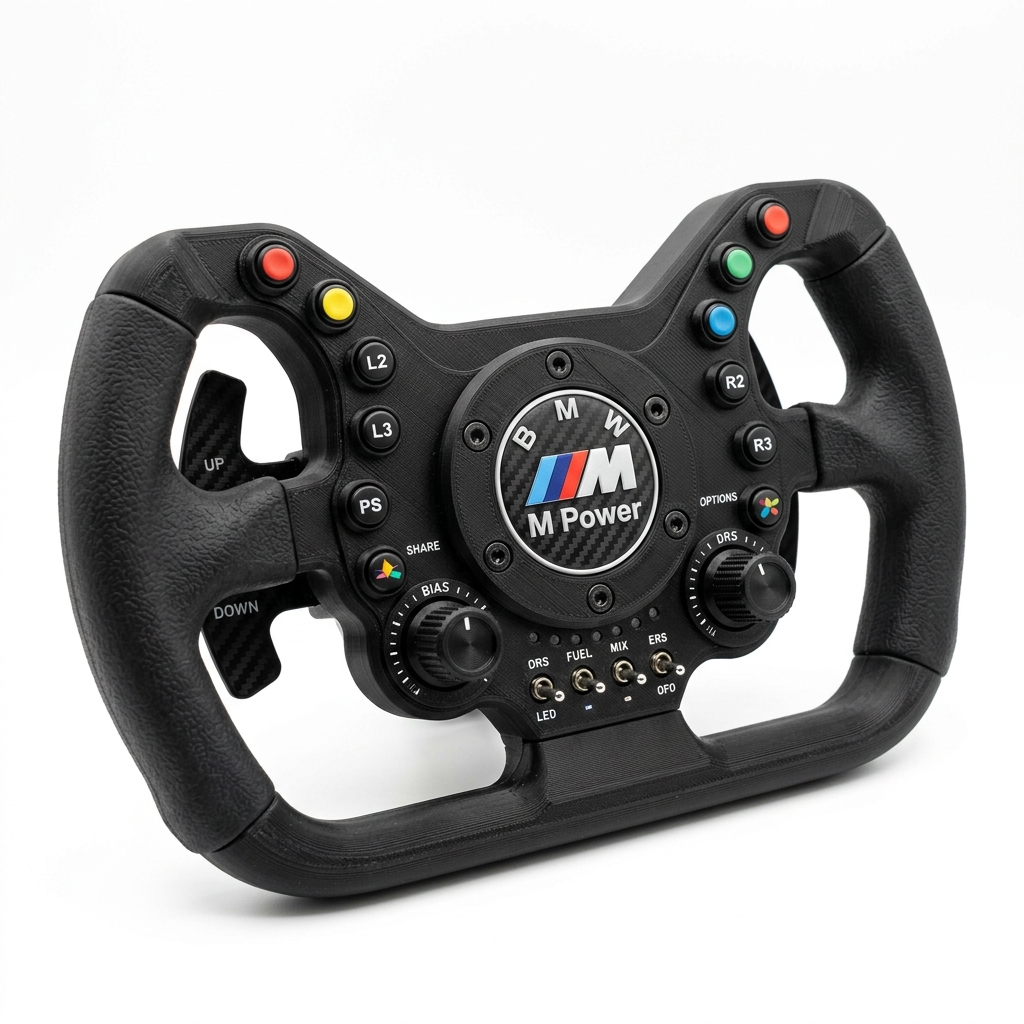
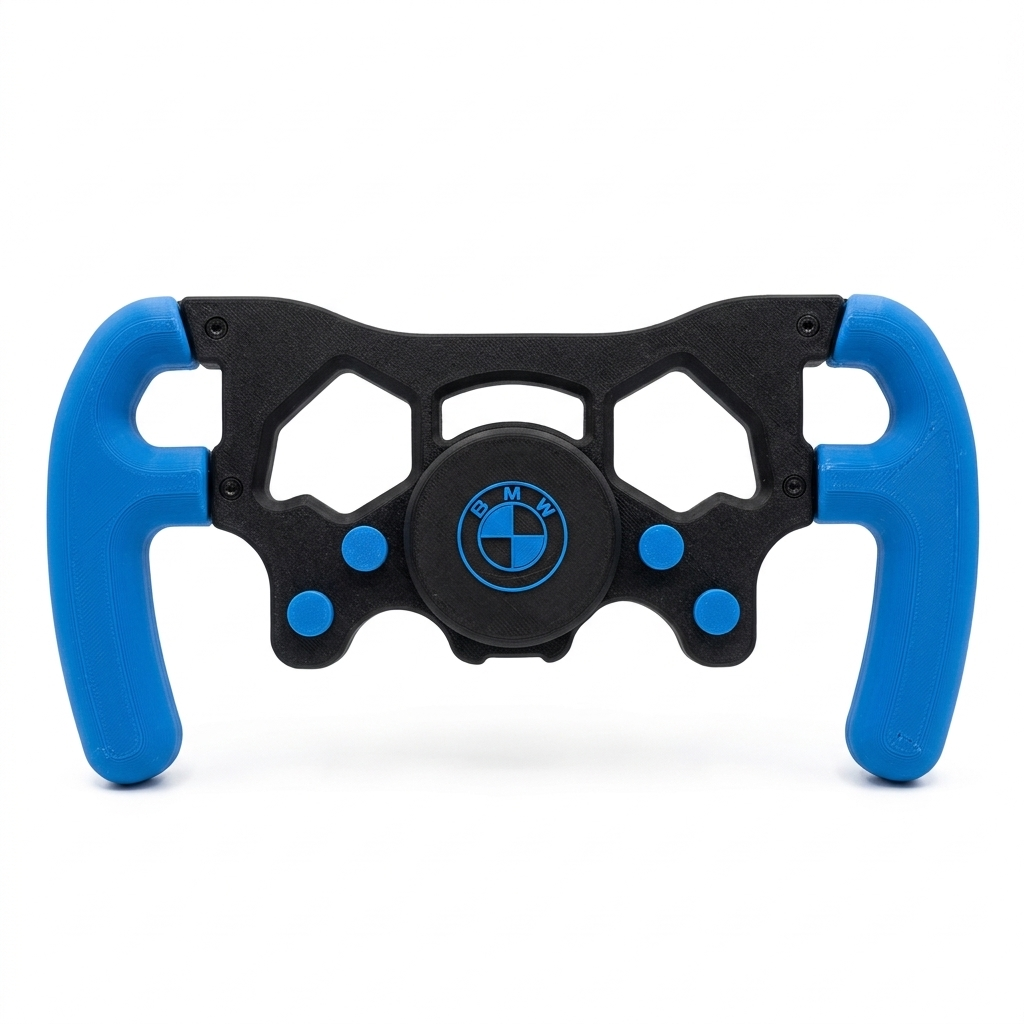
feat: foto oficial exata do volante F1 G29 com grips em azul matte e centro BMW sobre fundo branco

diff --git a/public/assets/js/products.js b/public/assets/js/products.js
@@ -512,7 +512,7 @@ const PRODUCTS_DATA = [
   {
     id: "mod-volante-bmw-logitech-g29",
     name: "Volante Fórmula 1 Mod BMW M-Power para Logitech G29 / G920 / G923",
-    subtitle: "Aro F1 GT Yoke Butterfly com Empunhaduras Ergonômicas, Centro BMW e 6 Studs",
+    subtitle: "Aro F1 GT com Empunhaduras em Azul Matte, Faceplate Vazado e Tampa BMW",
     category: "tech",
     categoryName: "Cases & Tech",
     pumaCategory: "tech",
@@ -525,22 +525,22 @@ const PRODUCTS_DATA = [
     wholesaleMinQty: 5,
     wholesaleLabel: "R$ 89,90 un (a partir de 5 un)",
     wholesaleDiscountPercent: "40% OFF",
-    materialDisplay: "PLA Tough HD + Grips Texturizados • Fundo Branco",
-    materials: ["PLA Tough Estrutural de Alta Densidade", "Empunhaduras com Grip Antiderrapante", "Tampa Central BMW M-Power"],
+    materialDisplay: "PLA Matte Preto & Azul Cobalto • Fundo Branco",
+    materials: ["PLA Matte de Alta Densidade", "Empunhaduras Anatômicas em Azul Matte", "Tampa Central BMW M-Power"],
     leadTime: "2 a 4 dias úteis",
     dimensions: "28,5cm (L) × 18,0cm (A) × 4,5cm (P) • Padrão F1 Real",
-    weight: "280g",
+    weight: "260g",
     discountTiers: [
       { min: 1, label: "1 a 2 un", price: 149.00, discount: "Preço Padrão" },
       { min: 3, label: "3 a 4 un", price: 119.20, discount: "20% OFF" },
       { min: 5, label: "5+ un (Atacado VIP)", price: 89.90, discount: "40% OFF" }
     ],
-    description: "Mod completo de Volante Fórmula 1 / GT para simuladores de corrida. Design butterfly yoke com empunhaduras ergonômicas texturizadas, acesso livre a todos os botões e borboletas de marcha (paddle shifters) do Logitech G29, G920 e G923. Inclui a tampa central com emblema BMW M-Power e 6 parafusos decorativos esportivos (studs). Instalação plug & play direta na furação original sem danificar o volante.",
+    description: "Mod oficial de Volante Fórmula 1 / GT para simuladores Logitech G29, G920 e G923. Estrutura rígida em PLA Matte preto com alívio de peso hexagonal, empunhaduras laterais ergonômicas em azul matte, 4 capas de botões em azul e tampa central com o logotipo da BMW. Encaixe direto na furação original do volante, sem necessidade de furar ou danificar a base.",
     b2bBenefits: [
-      "Ergonomia autêntica de monopostos de Fórmula 1 e carros GT3",
-      "Grips anatômicos de alta aderência para longas sessões de corrida",
-      "Tampa central BMW M-Power com acabamento acetinado de luxo",
-      "Sucesso garantido de vendas para comunidades de automobilismo virtual"
+      "Design exatamente igual ao projeto original Bambu Lab F1 Rim",
+      "Empunhaduras ergonômicas em azul matte de alta aderência",
+      "Tampa central com emblema BMW e encaixes perfeitos",
+      "Compatível com toda a furação e eletrônica original do Logitech"
     ],
     mainImage: "assets/images/prod_volante_bmw_logitech_g29.jpg",
     gallery: [
